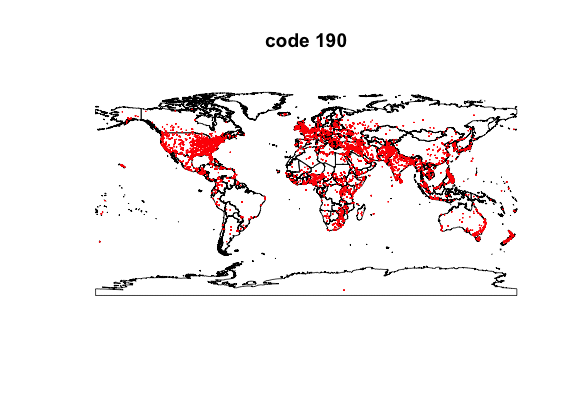
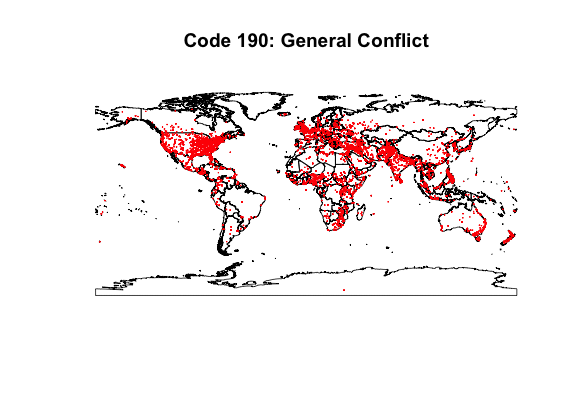
more in depth event code plots

Changed region(s): [[0.2962, 0.059, 0.77, 0.1179]]

diff --git a/_posts/2015-09-27-exploratory-analysis.md b/_posts/2015-09-27-exploratory-analysis.md
@@ -131,6 +131,10 @@ The CAMEO code enables for numeric categorization of events. Since the dimension
 ![Example CAMEO label]({{ stie.url }}/assets/cameo-example.png){: .center-image }
 
 ![Code 190 Map](/assets/code_190_map.png){: .center-image }
+![Code 192 Map](/assets/code_192_map.png){: .center-image }
+![Code 194 Map](/assets/code_194_map.png){: .center-image }
+
+This set of maps shows how news information will intersect with geographic locations. The data plotted is the week of March 1st, 2015. Each dot corresponds to an event labeled with the code indicated. Code 190 represents general conflict data and is useful for seeing the general spread of data. Of note are Brazil, Russia, and China, which either have or report very few conflicts in their news. Code 192 (occupy territory) shows how the labelling of news can be imprecise. Code 194 (armed conflict) shows there there are meaningful local patterns to be found. 
 
 ## Exploratory Analysis
 
